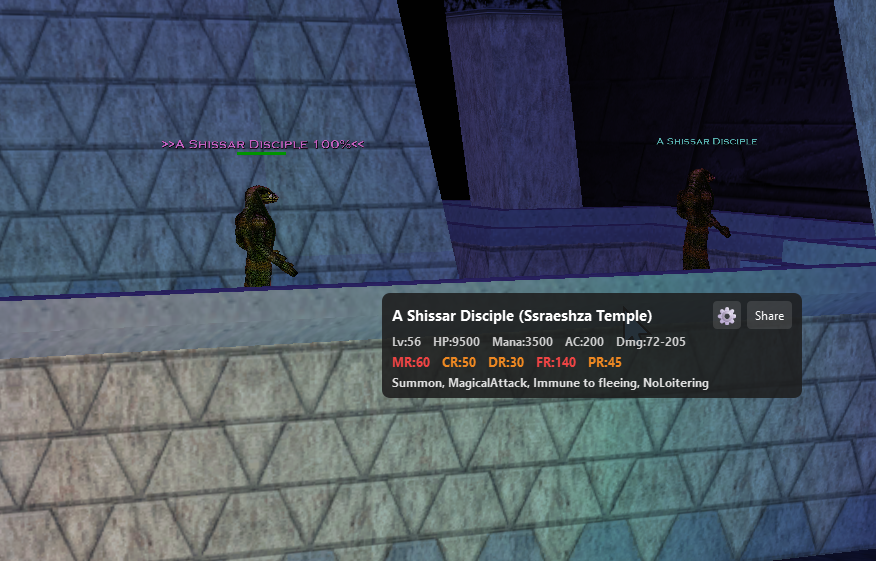
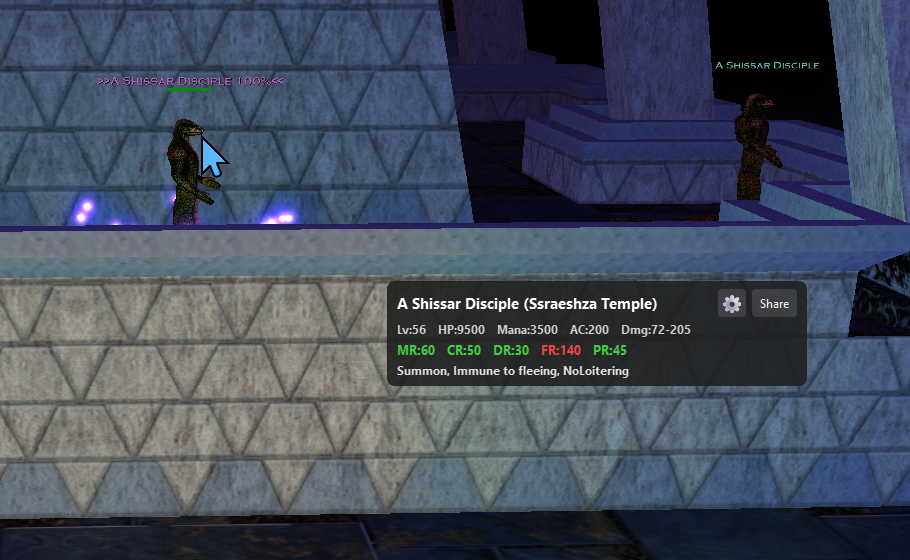
Fixed colors and bumped to 1.1

diff --git a/gui.py b/gui.py
@@ -40,11 +40,9 @@ def _resist_color(value):
         v = int(value)
     except Exception:
         return "#aaaaaa"
-    if v < 0:
-        return "#44cc44"
-    if v > 50:
+    if v > 100:
         return "#ee4444"
-    return "#ee8822"
+    return "#44cc44"
 
 
 def _make_label_style(color="#ffffff", size=10, bold=True):
@@ -410,9 +408,13 @@ if HAS_QT:
                 except Exception:
                     self._settings_win = None
 
-            dlg = QDialog()
+            dlg = QDialog(self)
             dlg.setWindowTitle("Quarm NPC Overlay - Settings")
-            dlg.setWindowFlags(dlg.windowFlags() | Qt.WindowType.WindowStaysOnTopHint)
+            dlg.setWindowFlags(
+                Qt.WindowType.Dialog
+                | Qt.WindowType.WindowStaysOnTopHint
+                | Qt.WindowType.WindowCloseButtonHint
+            )
             dlg.resize(520, 620)
             self._settings_win = dlg
 

diff --git a/config_manager.py b/config_manager.py
@@ -15,7 +15,7 @@ class ConfigManager:
         """Load config from file"""
         defaults = {
             'eq_log_path': None,
-            # Tk alpha (0.0-1.0). Lower = more transparent.
+            # Alpha (0.0-1.0). Lower = more transparent.
             'overlay_opacity': 0.88,
             # Overlay window position (screen coordinates)
             # Stored as {"x": int, "y": int}

diff --git a/.github/copilot-instructions.md b/.github/copilot-instructions.md
@@ -1,12 +1,13 @@
 # Copilot instructions for Quarm NPC Overlay
 
 ## Big picture
-- Single-app Python overlay with three core pieces: log watcher, SQLite NPC resist DB, and Tkinter GUI, all in quarm_npc_overlay.py.
+- Single-app Python overlay with three core pieces: log watcher, SQLite NPC resist DB, and PyQt6 GUI (gui.py), wired together in quarm_npc_overlay.py.
 - Data flow: EverQuest log line -> regex parse (consider output) -> normalize NPC name (spaces→underscores, lower-case) -> SQLite lookup -> GUI update.
 - Releases ship with a prebuilt `npc_data.db` (built from a full Quarm SQL dump). A Quarm dump is only needed for rebuilding/updating the DB during release builds or manual refreshes.
 
 ## Key files to know
-- quarm_npc_overlay.py: main entry, ConfigManager, EQResistDatabase, EQLogWatcher, and GUI (ResistOverlayGUI).
+- quarm_npc_overlay.py: main entry, ConfigManager, EQResistDatabase, EQLogWatcher.
+- gui.py: PyQt6 ResistOverlayGUI — frameless overlay, settings dialog, system tray.
 - quarm.sql / quarm_*.sql: full dump used to build NPC + zone/spawn mapping.
 - load_db.py: helper to load quarm.sql into dist/npc_data.db (used for packaged builds).
 - Spec files: PyInstaller specs for packaged builds (no SQL dump is bundled).
@@ -17,10 +18,10 @@
 - Name normalization is essential: always convert spaces to underscores and strip leading “#” before DB lookup (see EQResistDatabase.get_npc_resists and EQLogWatcher.watch).
 - DB schema uses name_lower for case-insensitive exact matches (no LIKE searches in app logic).
 - Config is stored in config.json next to the script/exe; EQ log path can be auto-detected or user-specified via GUI.
-- Logging is redirected to overlay.log next to the script/exe before any Tkinter import.
+- Logging is redirected to overlay.log next to the script/exe before any GUI import.
 
 ## Workflows
-- Run from source: python quarm_npc_overlay.py (Tkinter GUI).
+- Run from source: python quarm_npc_overlay.py (PyQt6 GUI).
 - Build executable (Windows): run build.bat (PyInstaller onefile, windowed).
 - Prepare packaged DB: python load_db.py (writes dist/npc_data.db).
 - Quick checks: python test_complete.py, test_lookup_fixed.py, test_log_parsing.py.
